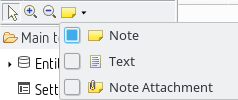
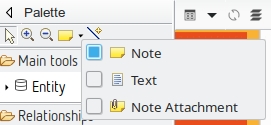
updated changelog

diff --git a/bundles/de.guite.modulestudio.help/doc/32-DiagramEditor.md b/bundles/de.guite.modulestudio.help/doc/32-DiagramEditor.md
@@ -58,6 +58,10 @@ Selected elements have an outline and anchors drawn on their border. Note that w
 
 ![Note, text and note attachment elements](images/ui_diagram_note_text_note_attachment.png "Note, text and note attachment elements")
 
+The *generic connection creation tool* allows you to create relationships between nodes very quickly. After selecting the tool first click on the source entity and then on the target entity. A pop-up menu appears asking you which type of relationship should be created.
+
+![Generic connection creation](images/ui_diagram_generic_connection_creation.png "Generic connectionc reation") 
+
 ### Palette contents
 
 Below the palette's header, which contains the general tools described above, you will find all the specific modelling tools. Note that depending on which [layers](#layers) are currently enabled, some tools may or may not be visible.

diff --git a/bundles/de.guite.modulestudio.help/doc/98-Changelog.md b/bundles/de.guite.modulestudio.help/doc/98-Changelog.md
@@ -5,6 +5,7 @@
 ### Product / Tooling changes
 
 * Updated to Eclipse Photon (4.8).
+* Added generic connection creation tool. Read more about that [here](32-DiagramEditor.md#palette-standard-tools).
 
 ### DSL / Modelling language changes
 
